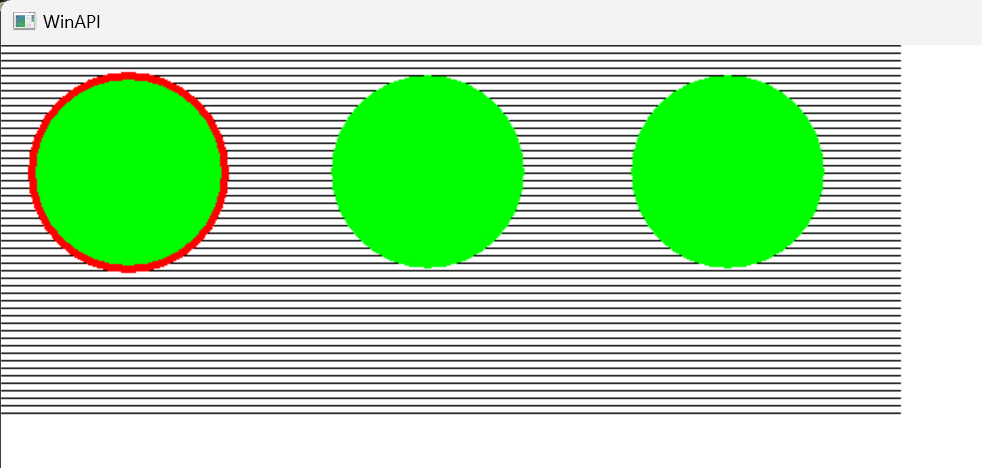
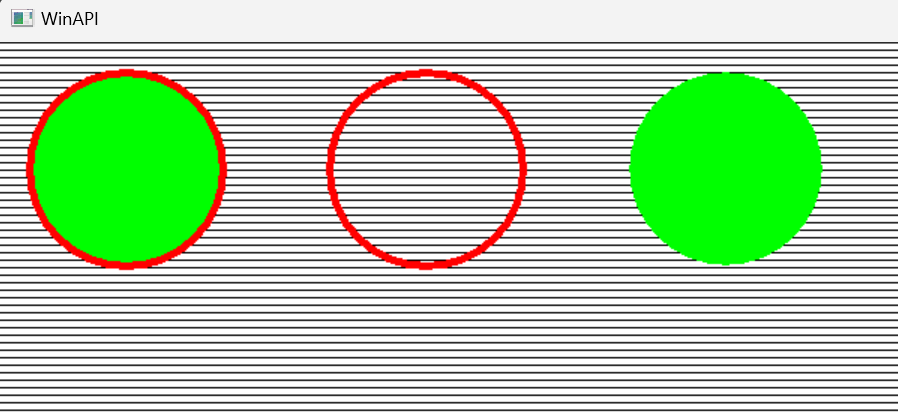
Fixed null pen -> null brush

diff --git a/CH6-Graphic/TransparentObject.h b/CH6-Graphic/TransparentObject.h
@@ -29,7 +29,7 @@ LRESULT CALLBACK WndProc(HWND hWnd, UINT msg, WPARAM wParam, LPARAM lParam)
             Ellipse(hdc, 20, 20, 150, 150);
 
             // red pen + null brush
-            SelectObject(hdc, GetStockObject(NULL_PEN));
+            SelectObject(hdc, GetStockObject(NULL_BRUSH));
             Ellipse(hdc, 220, 20, 350, 150);
 
             // null pen + green brush
